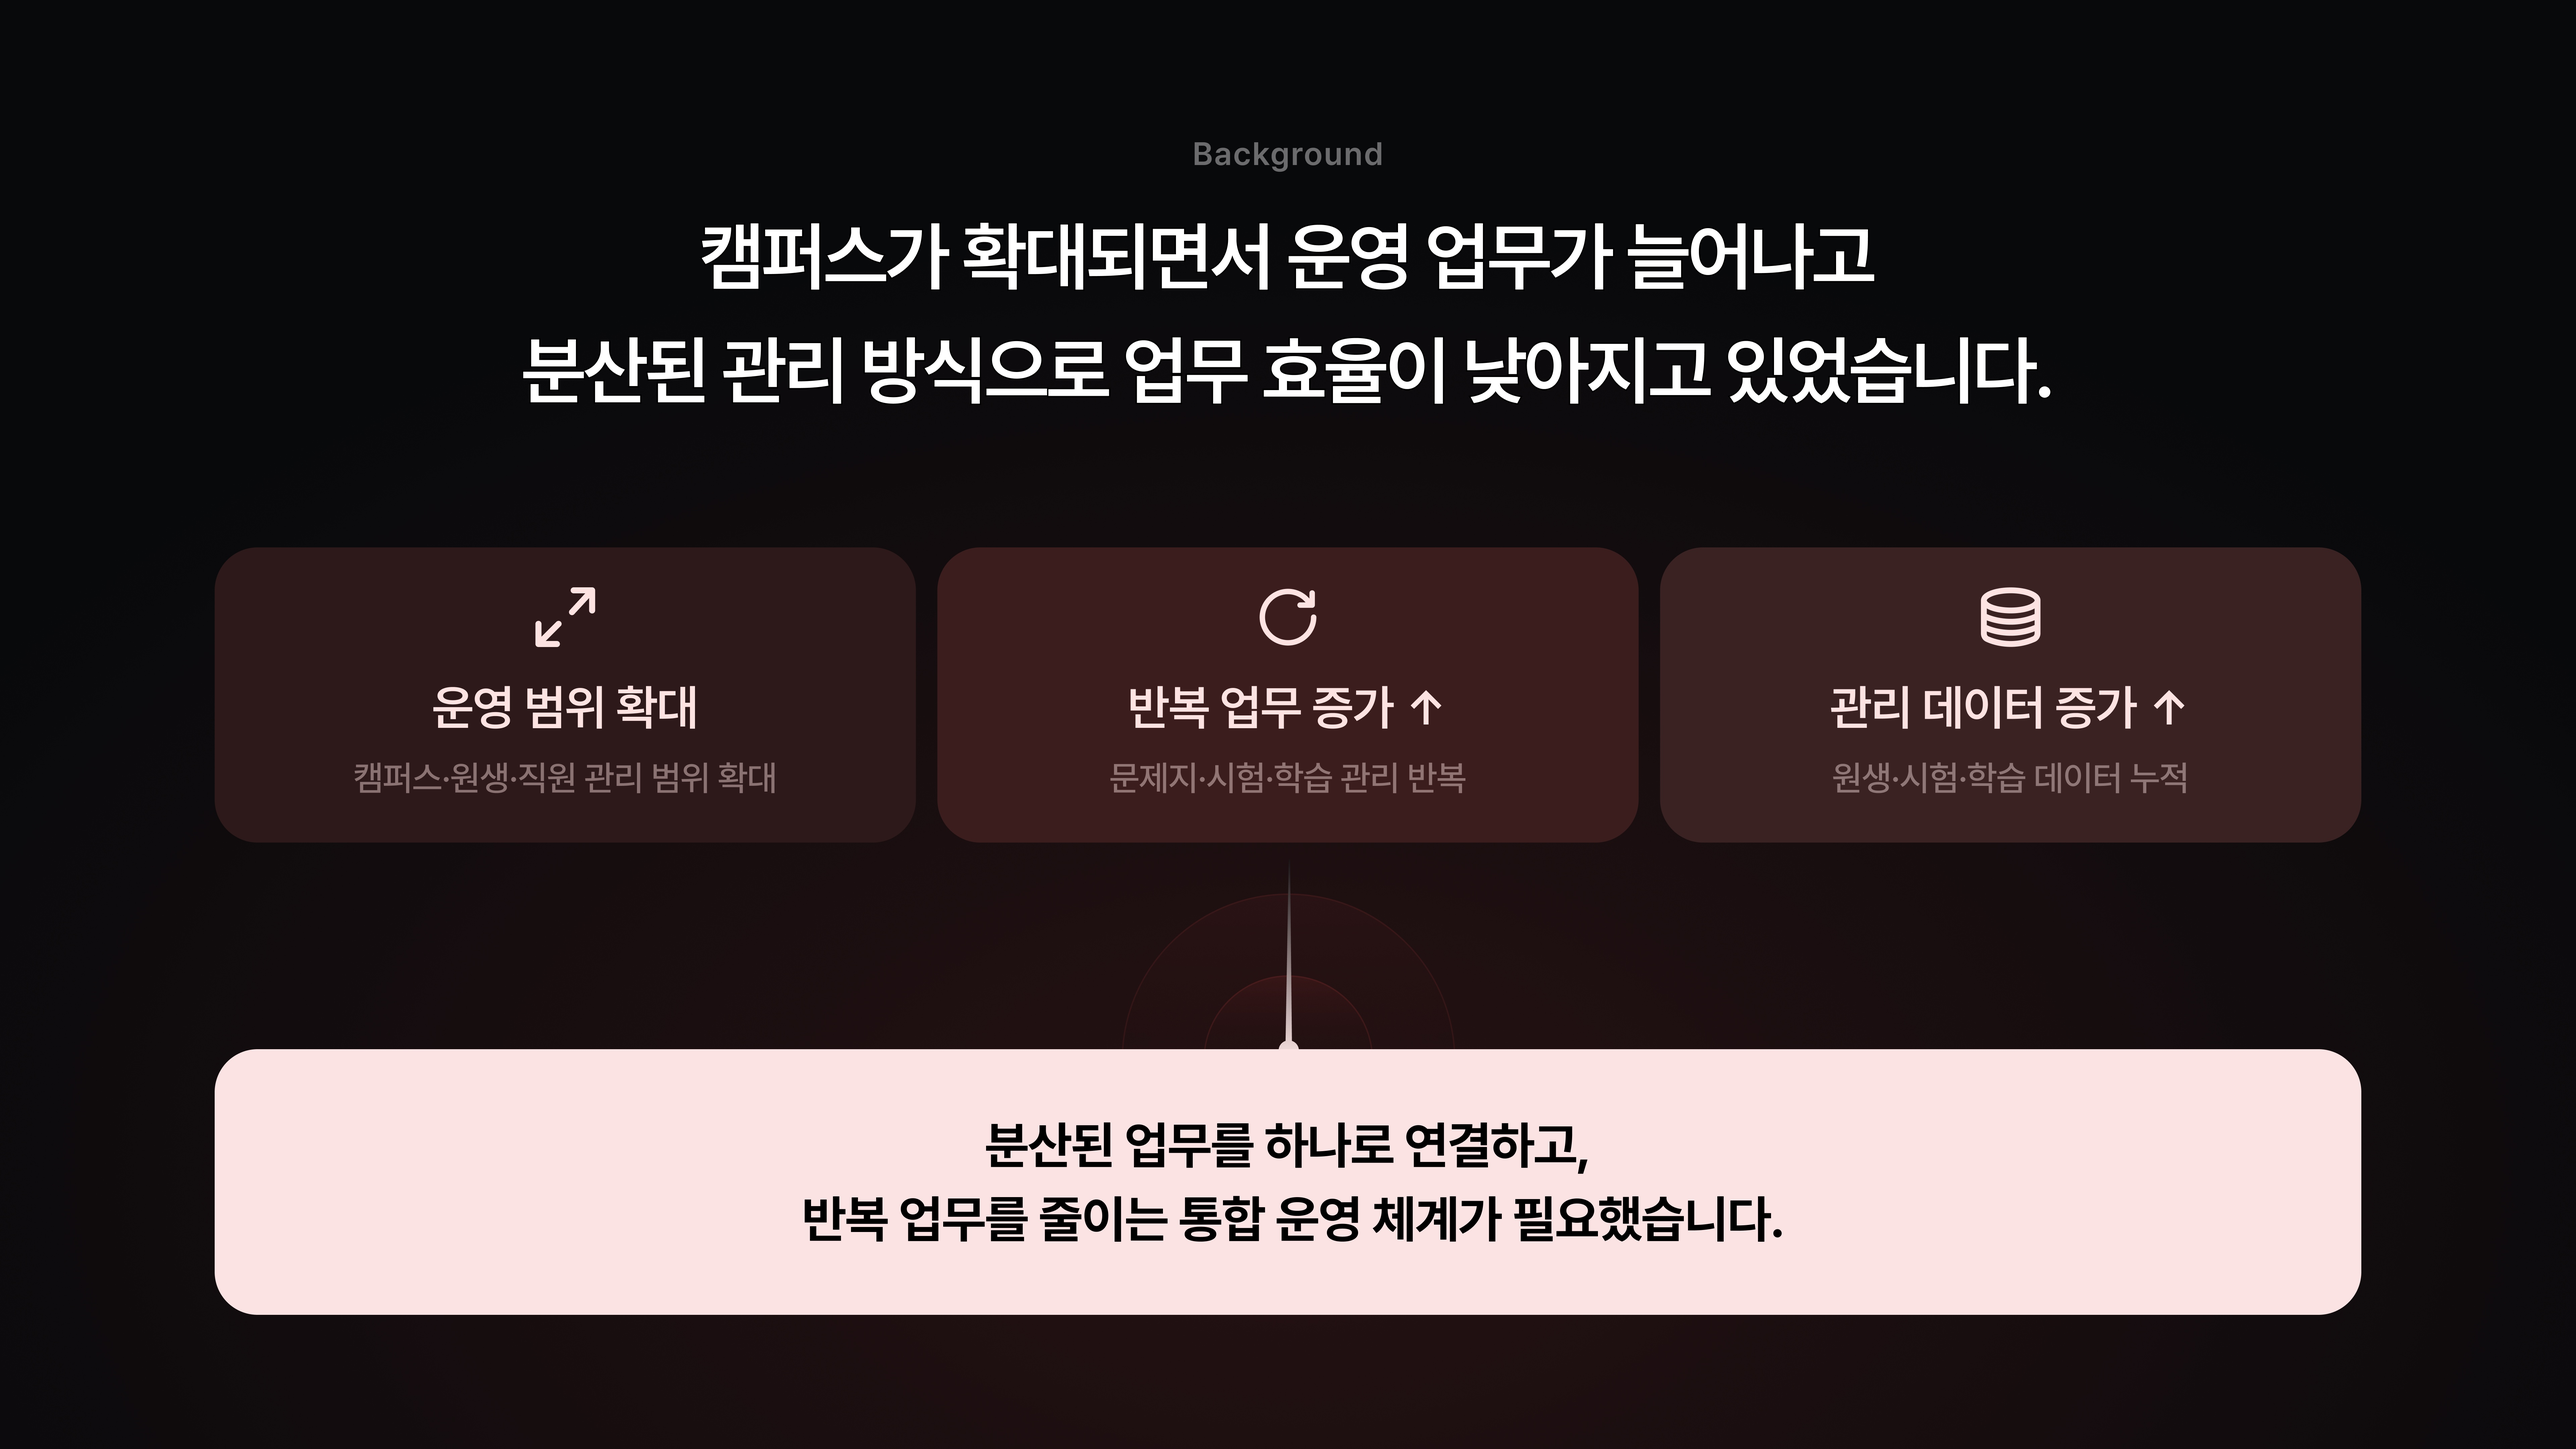
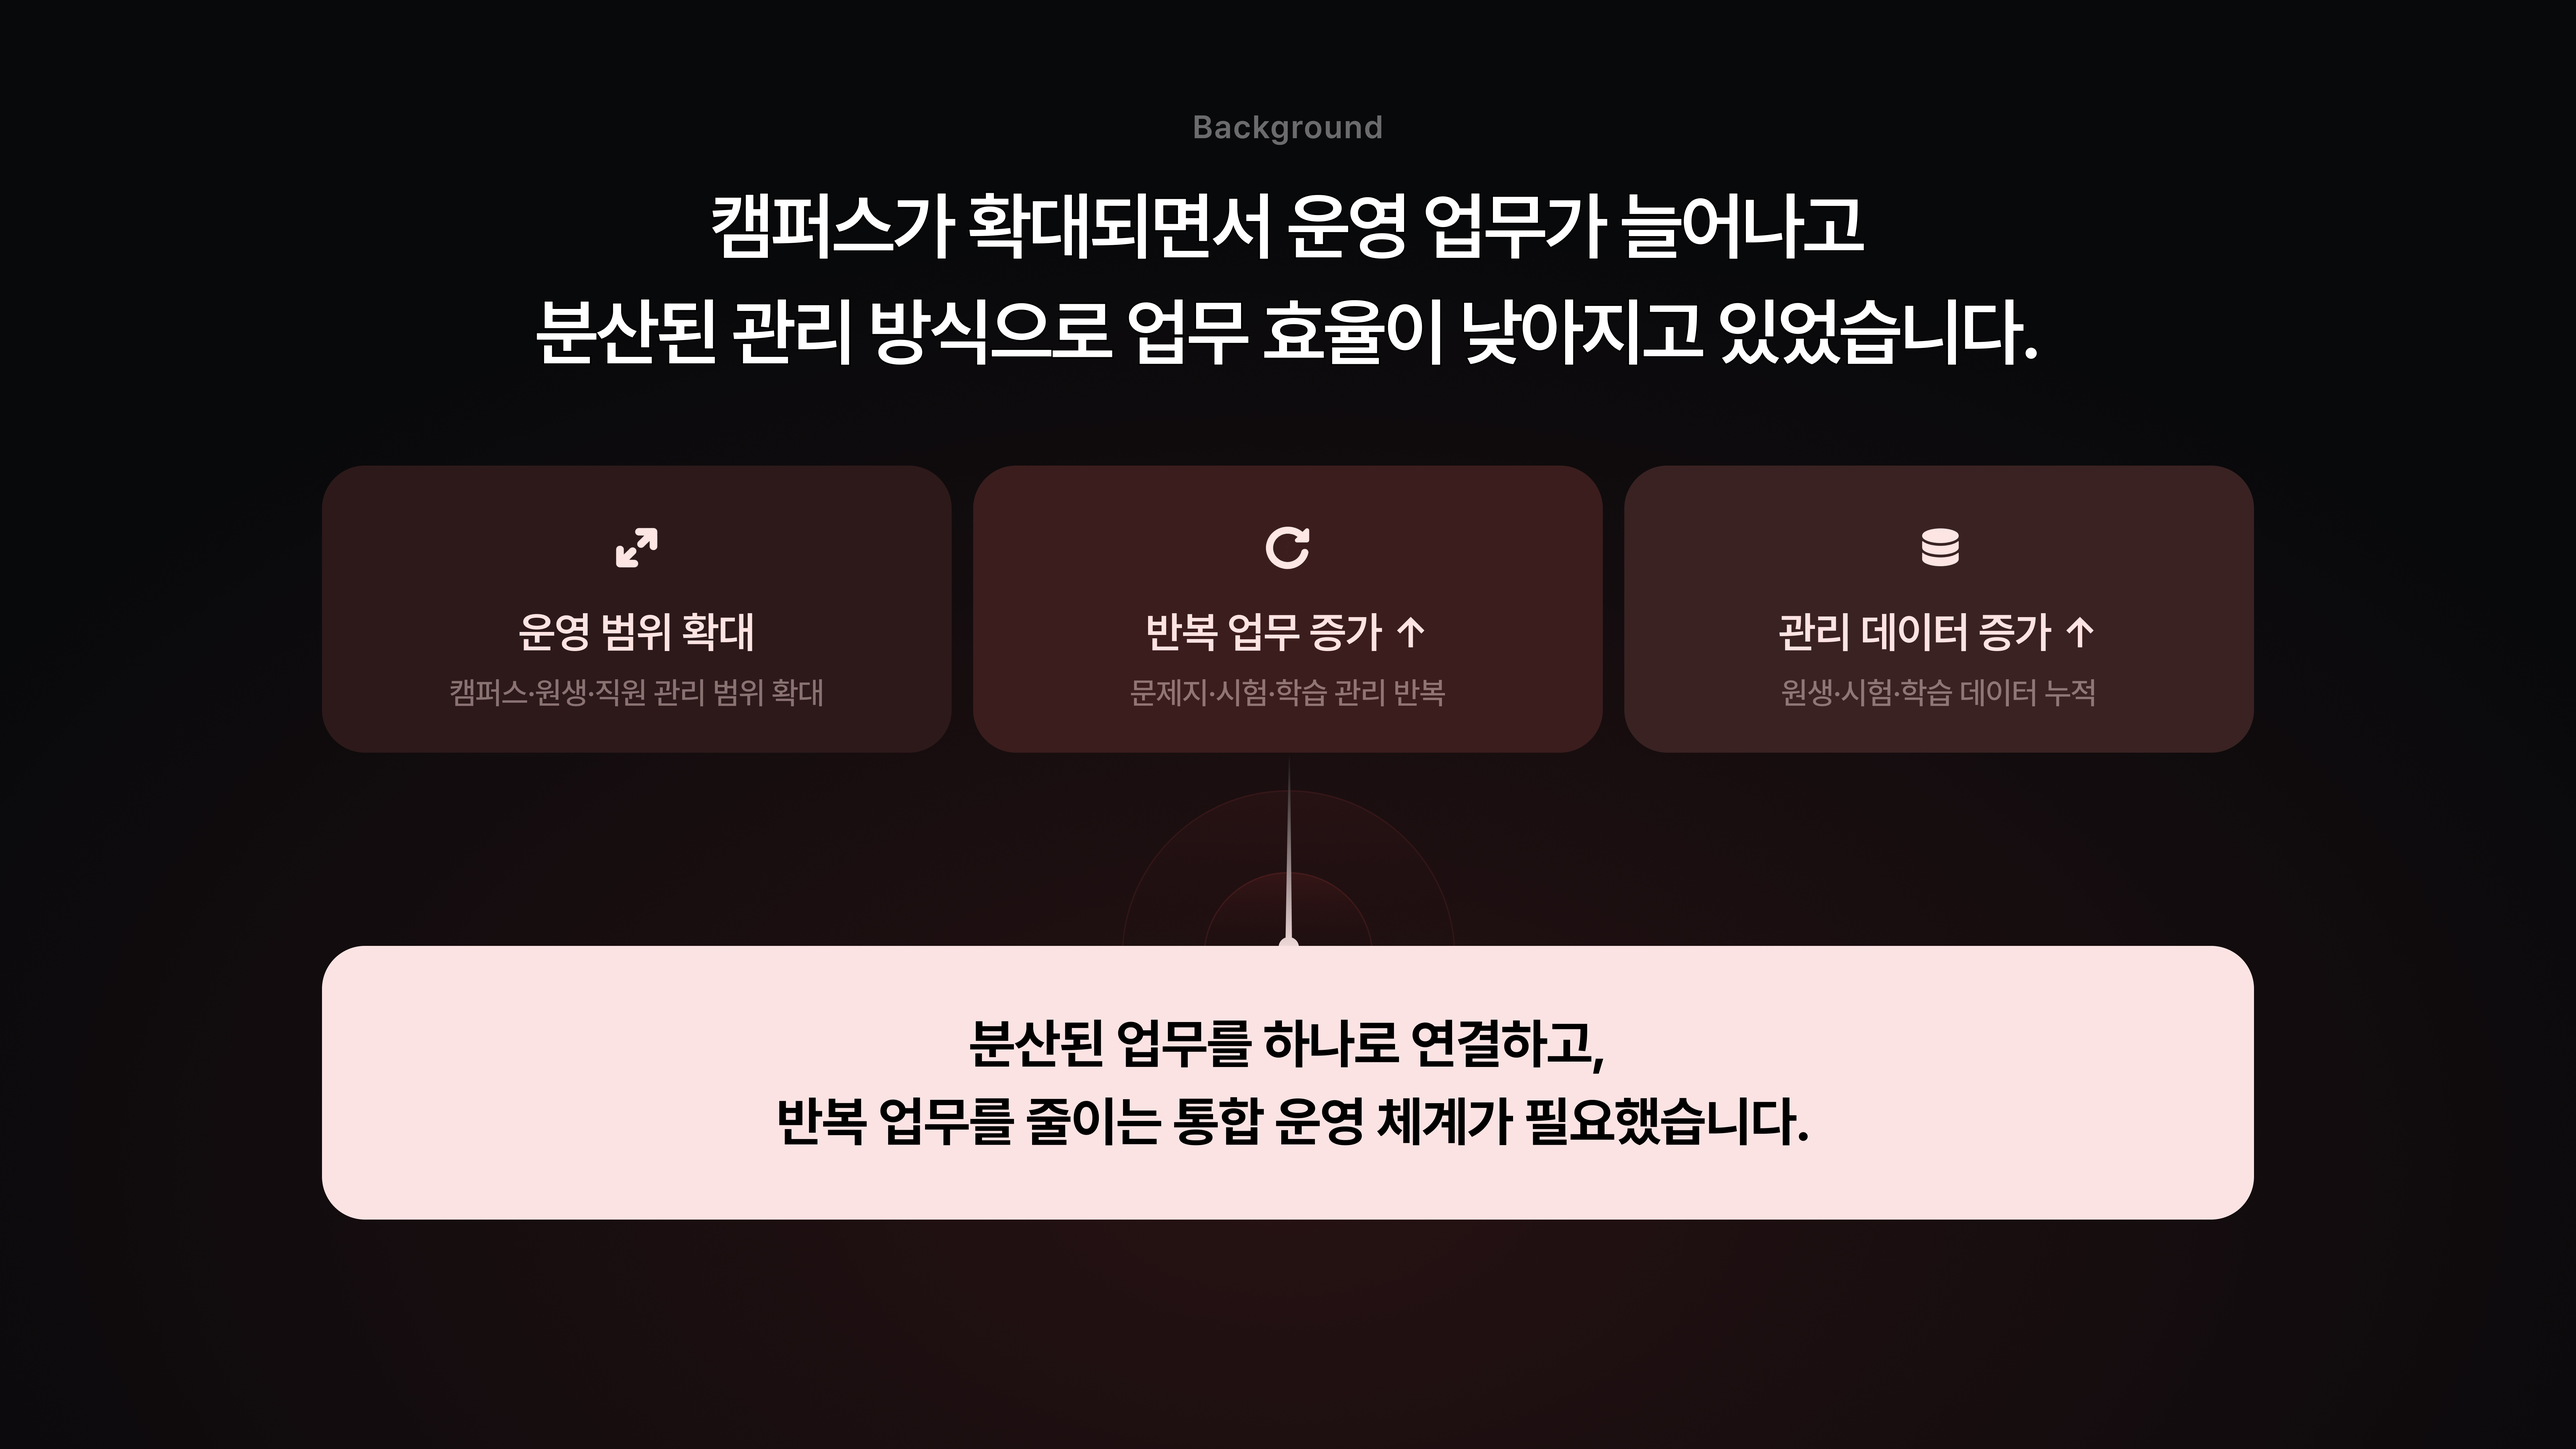
포트폴리오 이미지 최신본으로 일괄 교체
- 메인 커버 / 이력서 / 목차 PNG 갱신 (7680x4320, 16:9)
- 학원 ERP 슬라이드 01~05 교체 (4x JPEG q95 변환, PNG 원본은 _originals/01/)
- 교체된 index.png 의 카드 위치 재측정 → 기존 클릭 좌표가 그대로 유효, CSS 변경 없음
- 캐시 버전 ?v=20260922f (이미지 포함 전 자원)

Changed region(s): [[0.0625, 0.625, 0.9375, 0.9062], [0.0625, 0.3125, 0.9375, 0.5938], [0.1875, 0.0625, 0.8125, 0.2812]]

diff --git a/index.html b/index.html
@@ -26,7 +26,7 @@
 <link rel="preconnect" href="https://fonts.gstatic.com" crossorigin>
 <link href="https://fonts.googleapis.com/css2?family=Rethink+Sans:wght@500;600;700&family=Figtree:wght@400&family=Playfair+Display:wght@400;500&display=swap" rel="stylesheet">
 <link rel="stylesheet" href="https://cdn.jsdelivr.net/gh/orioncactus/pretendard@v1.3.9/dist/web/variable/pretendardvariable-dynamic-subset.min.css">
-<link rel="stylesheet" href="assets/css/styles.css?v=20260922e">
+<link rel="stylesheet" href="assets/css/styles.css?v=20260922f">
 </head>
 <body>
 
@@ -86,7 +86,7 @@
     <!-- ---------- HERO — Figma 원본 전체를 PNG 한 장으로 표시 ---------- -->
     <section class="hero full-bleed" id="home" aria-label="표지">
       <img class="hero__cover"
-           src="assets/img/main-cover.png?v=20260922e"
+           src="assets/img/main-cover.png?v=20260922f"
            alt="2026 Portfolio — Product Design"
            fetchpriority="high"
            decoding="async">
@@ -94,13 +94,13 @@
 
     <!-- ---------- RESUME / 이력서 ---------- -->
     <section class="resume full-bleed" id="profile">
-      <img src="assets/img/resume.png?v=20260922e" alt="신동주 이력서">
+      <img src="assets/img/resume.png?v=20260922f" alt="신동주 이력서">
     </section>
 
     <!-- ---------- INDEX — 완성 PNG 1장 + 투명 클릭 영역 ---------- -->
     <section class="index full-bleed" id="index" aria-label="프로젝트 목차">
       <div class="index__frame">
-        <img class="index__cover" src="assets/img/index.png?v=20260922e"
+        <img class="index__cover" src="assets/img/index.png?v=20260922f"
              alt="Index — 01 학원 ERP 서비스 고도화, 02 시니어 AI 케어 서비스 기획, 03 숏폼 OTT 서비스 런칭, 04 케이크 주문 서비스 구축"
              width="7680" height="4320" decoding="async">
         <a class="index__hit index__hit--01" href="#project-01" aria-label="학원 ERP 서비스 고도화 프로젝트로 이동"></a>
@@ -161,6 +161,6 @@
   </div>
 </div>
 
-<script src="assets/js/main.js?v=20260922e"></script>
+<script src="assets/js/main.js?v=20260922f"></script>
 </body>
 </html>

diff --git a/assets/js/main.js b/assets/js/main.js
@@ -67,7 +67,7 @@
      (CSS/JS 의 ?v= 와 같은 역할)
      경로 자체에는 붙이지 않는다 — 확장자 추출이나 존재 확인이 쿼리에
      오염되면 안 되므로, <img src> 에 실을 때만 versioned() 로 감싼다. */
-  var ASSET_VERSION = '20260922e';
+  var ASSET_VERSION = '20260922f';
   function slidePath(key, n, ext) { return 'assets/slides/' + key + '/' + pad(n) + '.' + ext; }
   function versioned(src) { return src + '?v=' + ASSET_VERSION; }
 
